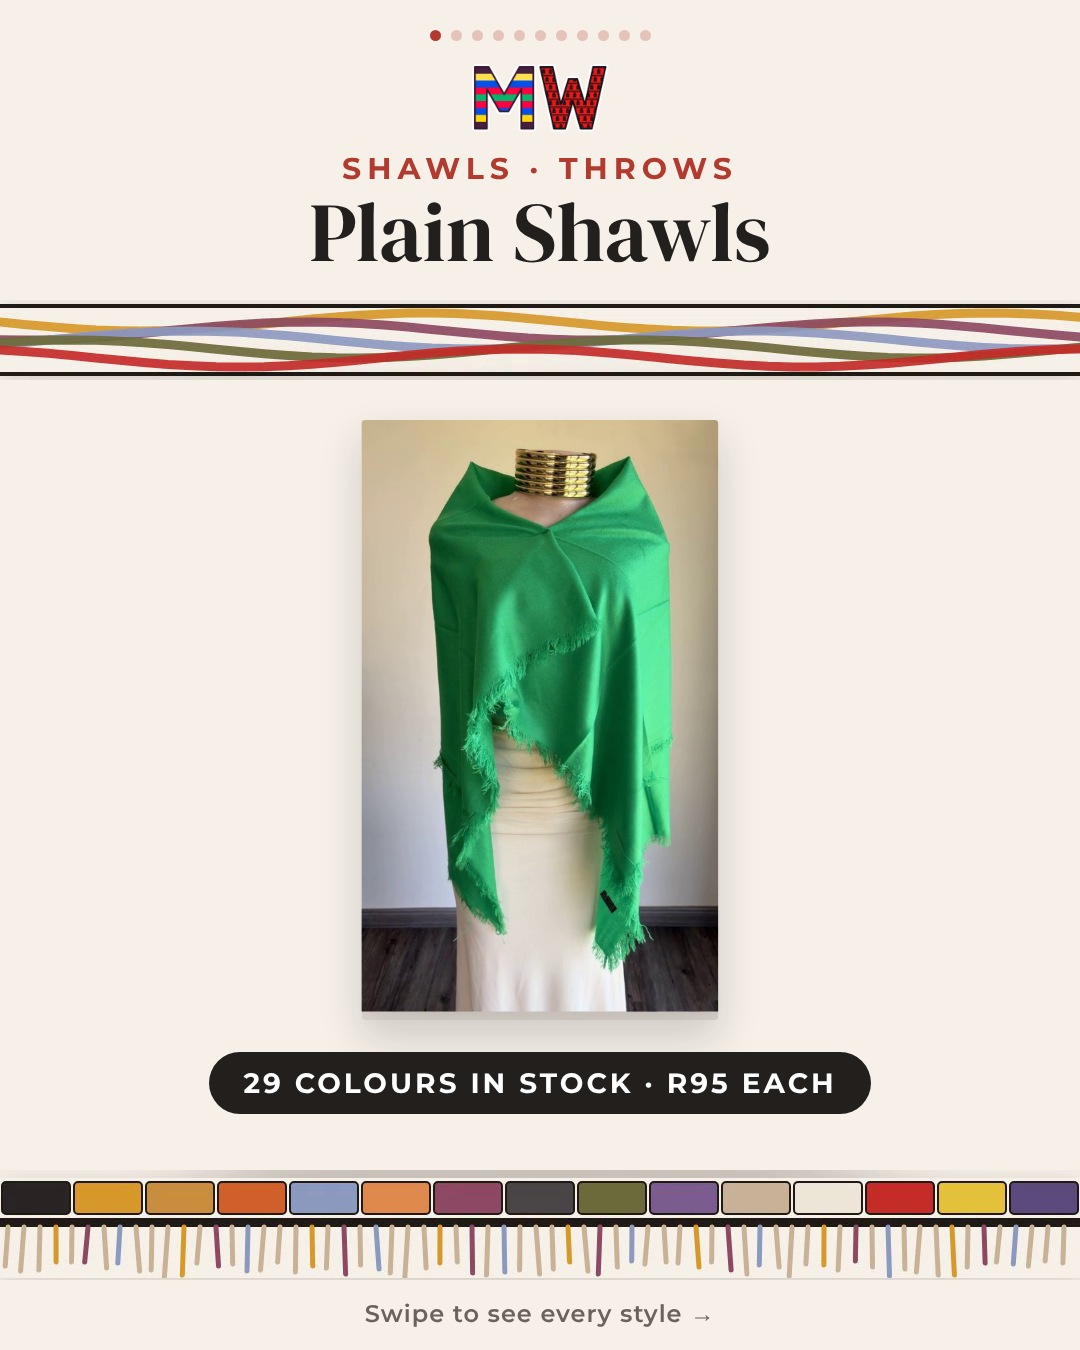
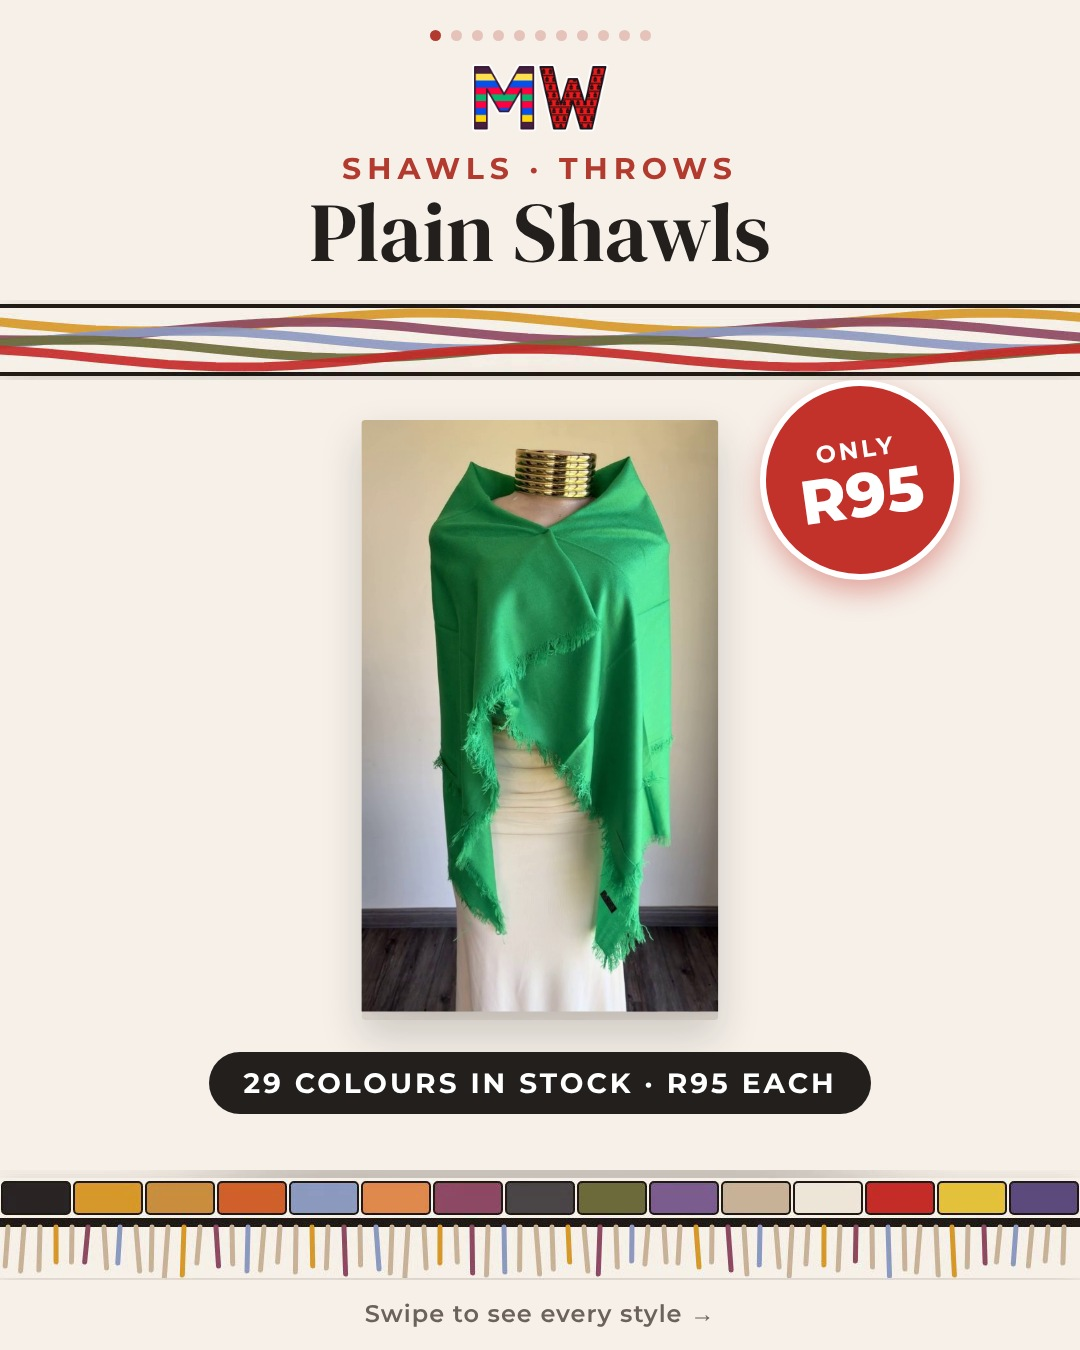
Add price badges to the hero product on every carousel cover
Claude-Session: https://claude.ai/code/session_01FrAdmZhbnvV2Pi8Ea2YxmY

Changed region(s): [[0.7028, 0.28, 0.9167, 0.4667]]

diff --git a/marketing/instagram/source/shot.js b/marketing/instagram/source/shot.js
@@ -3,7 +3,7 @@ const path=require('path');
 (async()=>{
   const b=await chromium.launch({executablePath:'/opt/pw-browsers/chromium-1194/chrome-linux/chrome'});
   const p=await b.newPage({viewport:{width:1080,height:1350}});
-  for(const [name,out] of [['nblankets','makkies-ndebele-blankets-carousel'],['naccess','makkies-ndebele-accessories-carousel'],['ntekkies','makkies-ndebele-tekkies-carousel']]){
+  for(const [name,out] of [['hats','makkies-ndebele-hats-carousel'],['xhosa','makkies-xhosa-stripe-carousel'],['frill','makkies-basotho-frill-carousel'],['elizabeth','makkies-elizabeth-basotho-carousel'],['plain','makkies-plain-shawls-carousel'],['soft','makkies-soft-touch-shawls-carousel'],['check','makkies-small-check-shawls-carousel'],['nblankets','makkies-ndebele-blankets-carousel'],['naccess','makkies-ndebele-accessories-carousel'],['ntekkies','makkies-ndebele-tekkies-carousel']]){
     await p.goto('file://'+path.join(__dirname,`ig_${name}.html`));
     await p.evaluate(()=>document.fonts.ready); await p.waitForTimeout(500);
     const els=await p.$$('.slide');

diff --git a/marketing/instagram/source/build_ig.py b/marketing/instagram/source/build_ig.py
@@ -39,6 +39,7 @@ def cover(n,set_,c):
 <div class="a serif" style="left:0;width:100%;top:190px;text-align:center;font-size:84px;line-height:1">{c['title']}</div>
 <img class="a bt" src="ph/{set_['bt']}" style="top:300px">
 <div class="a photo" style="top:420px;height:600px"><img src="ph/{c['img']}.png"></div>
+<div class="a price" style="right:120px;top:380px"><small>{c.get('pre','ONLY')}</small><b>R{c['price']}</b></div>
 <div class="a" style="left:0;width:100%;top:1052px;text-align:center"><span class="pill">{c['pill']}</span></div>
 <img class="a bb" src="ph/{set_['bb']}"><div class="a foot">Swipe to see every style →</div></div>'''
 def grid_slide(n,i,set_,g,items,cols,imh):
@@ -63,7 +64,7 @@ HATSET=dict(bg='#F6F0E9',acc='#C3312B',bt='border_ndebele_top.png',bb='border_nd
 hats=[('Beige','beige',200,'58'),('White','white',200,'58'),('Beaded','beaded',200,'58'),('Black','black',200,'58'),
       ('Brown','brown',200,'58'),('Brown Pattern','brownpattern',200,'58'),("Women’s Hat",'womens',200,'One size'),('Painted Cap','cap',150,'58')]
 N=len(hats)+3
-hs=[cover(N,HATSET,dict(eyebrow='HATS · HAND-PAINTED',title='Ndebele Painted Hats',img='beige',pill='8 STYLES IN STOCK · FROM R150'))]
+hs=[cover(N,HATSET,dict(eyebrow='HATS · HAND-PAINTED',title='Ndebele Painted Hats',img='beige',price=200,pill='8 STYLES IN STOCK · FROM R150'))]
 for k,(nm,img,pr,sz) in enumerate(hats):
     hs.append(product_slide(N,k+1,HATSET,dict(name=nm,img=img,price=pr,eyebrow=f'{k+1:02d}<span class="ln"></span>SIZE {sz.upper()}')))
 hs.append(grid_slide(N,N-2,HATSET,dict(title='Pick your style.',sub='Hand-painted Ndebele hats',foot='Wholesale & retail · bulk buyers, ask us for trade pricing'),
@@ -73,7 +74,7 @@ hs.append(order_slide(N,HATSET,'Delivery across South Africa · PAXI to any PEP 
 XSET=dict(bg='#F2EBDB',acc='#C8642A',bt='border_xhosa_top.png',bb='border_xhosa_bot.png')
 xs_=[('Black Stripe','xblack',300,'180 × 200 CM'),('Purple Stripe','xpurple',300,'180 × 220 CM'),('Red Stripe','xred',300,'180 × 220 CM')]
 N2=len(xs_)+3
-xs=[cover(N2,XSET,dict(eyebrow='TRIBAL BLANKETS · XHOSA',title='Xhosa Tribal Stripe',img='xblack',pill='3 COLOURS · R300 EACH'))]
+xs=[cover(N2,XSET,dict(eyebrow='TRIBAL BLANKETS · XHOSA',title='Xhosa Tribal Stripe',img='xblack',price=300,pill='3 COLOURS · R300 EACH'))]
 for k,(nm,img,pr,sz) in enumerate(xs_):
     xs.append(product_slide(N2,k+1,XSET,dict(name=nm,img=img,price=pr,eyebrow=f'{k+1:02d}<span class="ln"></span>{sz}')))
 xs.append(grid_slide(N2,N2-2,XSET,dict(title='One classic. Three colours.',sub='Felt finish · 95% polyester, 5% cotton',foot='Wholesale & retail · bulk buyers, ask us for trade pricing'),
@@ -84,7 +85,7 @@ xs.append(order_slide(N2,XSET,'Delivery across South Africa · PAXI to any PEP s
 BSET=dict(bg='#F2EBDB',acc='#B23A2E',bt='border_basotho_top.png',bb='border_basotho_bot.png')
 fr=[('Black / White','fblack',225),('Red / White','fred',225),('Grey / White','fgrey',225)]
 N3=len(fr)+3
-fs=[cover(N3,BSET,dict(eyebrow='TRIBAL BLANKETS · BASOTHO',title='Basotho Frill',img='fblack',pill='3 COLOURS · R225 EACH'))]
+fs=[cover(N3,BSET,dict(eyebrow='TRIBAL BLANKETS · BASOTHO',title='Basotho Frill',img='fblack',price=225,pill='3 COLOURS · R225 EACH'))]
 for k,(nm,img,pr) in enumerate(fr):
     fs.append(product_slide(N3,k+1,BSET,dict(name=nm,img=img,price=pr,eyebrow=f'{k+1:02d}<span class="ln"></span>150 × 160 CM')))
 fs.append(grid_slide(N3,N3-2,BSET,dict(title='Pick your colour.',sub='Fringed Basotho blanket · 150 × 160 cm',foot='Wholesale & retail · bulk buyers, ask us for trade pricing'),
@@ -93,7 +94,7 @@ fs.append(order_slide(N3,BSET,'Delivery across South Africa · PAXI to any PEP s
 
 el=[('Black / White','eblack',275),('Blue','eblue',275),('Orange','eorange',275),('Red','ered',275),('Turquoise','eturq',275)]
 N4=len(el)+3
-es=[cover(N4,BSET,dict(eyebrow='TRIBAL BLANKETS · BASOTHO',title='Elizabeth Basotho',img='eturq',pill='5 COLOURS · R275 EACH'))]
+es=[cover(N4,BSET,dict(eyebrow='TRIBAL BLANKETS · BASOTHO',title='Elizabeth Basotho',img='eturq',price=275,pill='5 COLOURS · R275 EACH'))]
 for k,(nm,img,pr) in enumerate(el):
     es.append(product_slide(N4,k+1,BSET,dict(name=nm,img=img,price=pr,eyebrow=f'{k+1:02d}<span class="ln"></span>150 × 160 CM')))
 es.append(grid_slide(N4,N4-2,BSET,dict(title='Pick your colour.',sub='Basotho heritage blanket · 150 × 160 cm',foot='Wholesale & retail · bulk buyers, ask us for trade pricing'),
@@ -105,7 +106,7 @@ SSET=dict(bg='#F6F0E9',acc='#B23A2E',bt='border_shawl_top.png',bb='border_shawl_
 ORDER='Delivery across South Africa · PAXI to any PEP store<br>or collect from Shop D4, Pretoria Oriental Complex, Marabastad'
 def shawl_set(title,items,price,size,pill,gsub,cols,imh,eyeword='COLOURS'):
     N=len(items)+3
-    out=[cover(N,SSET,dict(eyebrow='SHAWLS · THROWS',title=title,img=items[0][1],pill=pill))]
+    out=[cover(N,SSET,dict(eyebrow='SHAWLS · THROWS',title=title,img=items[0][1],price=price,pill=pill))]
     for k,(nm,img) in enumerate(items):
         out.append(product_slide(N,k+1,SSET,dict(name=nm,img=img,price=price,eyebrow=f'{k+1:02d}<span class="ln"></span>{size}')))
     out.append(grid_slide(N,N-2,SSET,dict(title='Pick your colour.' if eyeword=='COLOURS' else 'Pick your design.',sub=gsub,foot='Wholesale & retail · bulk buyers, ask us for trade pricing'),
@@ -123,7 +124,8 @@ cs=shawl_set('Small Check Shawls',[('Multi Stripe','cmulti'),('Rose','crose'),('
 NSET=HATSET
 def coll(title,eyebrow,hero,pill,items,gtitle,gsub,cols,imh):
     N=len(items)+3
-    out=[cover(N,NSET,dict(eyebrow=eyebrow,title=title,img=hero,pill=pill))]
+    h=[it for it in items if it['i']==hero][0]
+    out=[cover(N,NSET,dict(eyebrow=eyebrow,title=title,img=hero,price=h['p'],pre=h.get('pre','ONLY'),pill=pill))]
     for k,it in enumerate(items):
         out.append(product_slide(N,k+1,NSET,dict(name=it['n'],img=it['i'],price=it['p'],pre=it.get('pre','ONLY'),eyebrow=f"{k+1:02d}<span class='ln'></span>{it['e']}")))
     out.append(grid_slide(N,N-2,NSET,dict(title=gtitle,sub=gsub,foot='Wholesale & retail · bulk buyers, ask us for trade pricing'),
